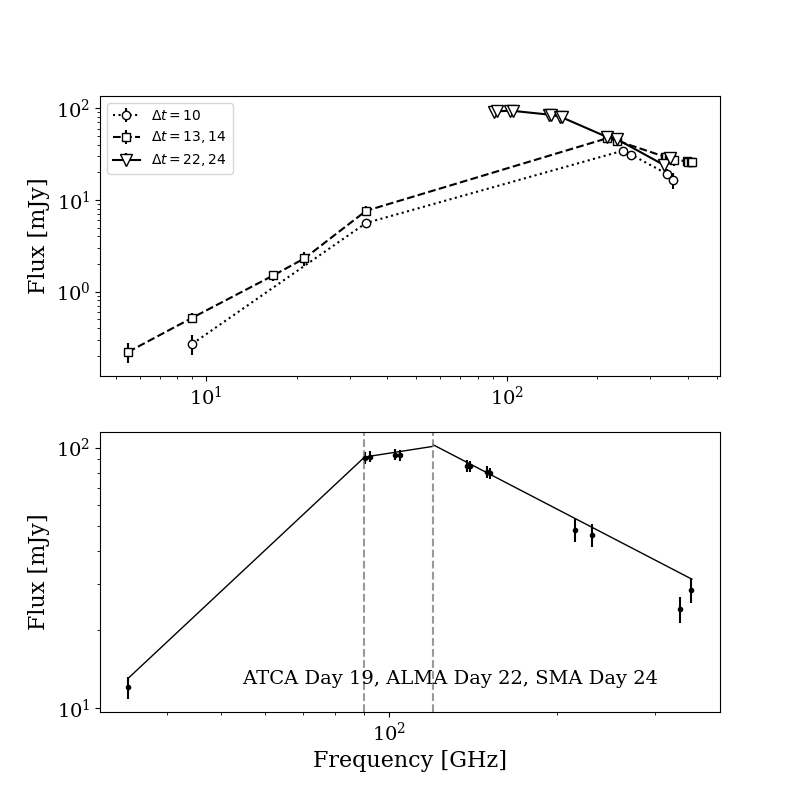
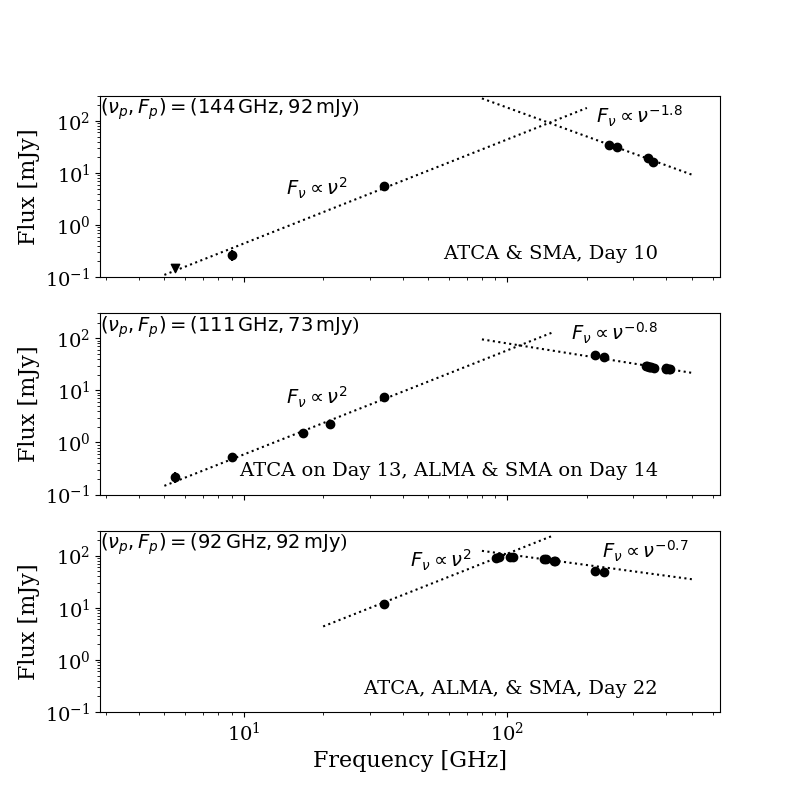
xray light curve

diff --git a/paper_plots/plot_spec.py b/paper_plots/plot_spec.py
@@ -12,9 +12,11 @@ from astropy.table import Table
 from astropy.cosmology import Planck15
 
 
-def synchrotron(x, nu_a, F_a, nu_m, F_m, alpha):
+def synchrotron(x, nu_a, F_a, alpha):
     """ Fitting function """
     y = np.zeros(len(x))
+    nu_m = 100
+    F_m = 95
     choose = x <= nu_a
     y[choose] = F_a * (x[choose]/nu_a)**2
     choose = np.logical_and(x > nu_a, x <= nu_m)
@@ -24,14 +26,18 @@ def synchrotron(x, nu_a, F_a, nu_m, F_m, alpha):
     return y
 
 
+def self_abs(x, b):
+    """ Fitting function for self-absorbed part """
+    y = 10**(2*np.log10(x)+b)
+    return y
+
+
 def fit_spec(freq, flux, flux_err):
     """ Fit the spectrum on Day 22 to a synchrotron spectrum """
     nu_a = 90
     F_a = 90
-    nu_m = 100
-    F_m = 90
     alpha = -1.0
-    p0 = [nu_a, F_a, nu_m, F_m, alpha]
+    p0 = [nu_a, F_a, alpha]
 
     popt, pcov = curve_fit(
             synchrotron, freq, flux, p0 = p0,
@@ -40,6 +46,13 @@ def fit_spec(freq, flux, flux_err):
     xfit = np.linspace(min(freq), max(freq))
     yfit = synchrotron(xfit, *popt)
 
+
+def fit_self_abs(freq, flux, flux_err):
+    """ Fit the self-absorbed part of the spectrum """
+    popt, pcov = curve_fit(
+            self_abs, freq, flux,
+            sigma = flux_err, absolute_sigma = True)
+    return popt[0]
 
 
 
@@ -85,7 +98,8 @@ def get_data():
 if __name__=="__main__":
     tel, freq, days, flux, flux_err = get_data()
 
-    fig, axarr = plt.subplots(2, 1, figsize=(8,8))
+    fig, axarr = plt.subplots(
+            3, 1, figsize=(8,8), sharex=True, sharey=True)
 
     # top panel: evolution of spectra
     ax = axarr[0]
@@ -96,12 +110,55 @@ if __name__=="__main__":
     det = flux_err[choose][order] > 0
     ax.errorbar(
             freq[choose][order][det], flux[choose][order][det], 
-            yerr=flux_err[choose][order][det],
-            mfc='white', mec='black', fmt=':', marker='o',
+            yerr=flux_err[choose][order][det], fmt='o',
             label="$\Delta t = 10$", c='k')
+    ax.scatter(
+            5.5, 0.15, marker='v', c='k')
+
+    b = fit_self_abs(
+            freq[choose][order][det][0:2],
+            flux[choose][order][det][0:2],
+            flux_err[choose][order][det][0:2])
+    xfit = np.linspace(5, 200)
+    yfit = 10**(2*np.log10(xfit)+b)
+    ax.plot(xfit, yfit, ls=':', c='k')
+
+    ax.text(
+            0.4, 0.45, "$F_\\nu \propto \\nu^2$", 
+            transform=ax.transAxes, horizontalalignment='right', fontsize=14)
+
+    # fit and plot a nu^something line
+    m,b = np.polyfit(
+            np.log10(freq[choose][order][det][2:]),
+            np.log10(flux[choose][order][det][2:]),
+            deg = 1,
+            w=1/flux_err[choose][order][det][2:]**2)
+    print(m)
+    xfit = np.linspace(80, 500)
+    yfit = 10**(m*np.log10(xfit)+b)
+    ax.plot(xfit, yfit, ls=':', c='k')
+    ax.text(
+            0.8, 0.85, "$F_\\nu \propto \\nu^{-1.8}$", 
+            transform=ax.transAxes, horizontalalignment='left', fontsize=14)
+
+    # the lines join at (144, 92)
+    ax.text(
+            0, 0.9, "$(\\nu_p, F_p) = (144\,\mathrm{GHz}, 92\,\mathrm{mJy}$)", 
+            transform=ax.transAxes, horizontalalignment='left', fontsize=14)
+    ax.text(
+            0.9, 0.1, "ATCA & SMA, Day 10", 
+            transform=ax.transAxes, horizontalalignment='right', fontsize=14)
+
+    ax.tick_params(axis='both', labelsize=14)
+    ax.tick_params(axis='both', labelsize=14)
+    ax.set_ylabel("Flux [mJy]", fontsize=16)
+    ax.set_xscale('log')
+    ax.set_yscale('log')
 
     # plot the spectrum from Day 13-14 data
     # ATCA from Day 13, SMA and ALMA from Day 14
+    ax = axarr[1]
+
     choose = np.logical_or(
             np.logical_and(days == 13, tel == 'ATCA'),
             np.logical_and(days == 14, tel != 'ATCA'))
@@ -113,28 +170,47 @@ if __name__=="__main__":
     ax.errorbar(
             freq[choose][order][det], flux[choose][order][det], 
             yerr=flux_err[choose][order][det],
-            mfc='white', mec='black', fmt='--', marker='s',
-            label="$\Delta t = 13, 14$", c='k')
+            label="$\Delta t = 13, 14$", fmt='o', c='k')
 
-    # plot the spectrum from the Day 22 data
-    choose = days == 22
-    choose = np.logical_or(days == 22, days == 24)
+    # plot a nu^2 line
+    b = fit_self_abs(
+            freq[choose][order][det][0:5],
+            flux[choose][order][det][0:5],
+            flux_err[choose][order][det][0:5])
+    xfit = np.linspace(5, 150)
+    yfit = 10**(2*np.log10(xfit)+b)
+    ax.plot(xfit, yfit, ls=':', c='k')
+    ax.text(
+            0.4, 0.5, "$F_\\nu \propto \\nu^2$", 
+            transform=ax.transAxes, horizontalalignment='right', fontsize=14)
 
-    order = np.argsort(freq[choose])
-    ax.errorbar(
-            freq[choose][order], flux[choose][order], 
-            yerr=flux_err[choose][order],
-            mfc='white', mec='black', fmt='-', marker='v', ms=8, ls='-',
-            label="$\Delta t = 22, 24$", c='k')
+    # fit and plot a nu^something line
+    m,b = np.polyfit(
+            np.log10(freq[choose][order][det][5:]),
+            np.log10(flux[choose][order][det][5:]),
+            deg = 1,
+            w=1/flux_err[choose][order][det][5:]**2)
+    print(m)
+    xfit = np.linspace(80, 500)
+    yfit = 10**(m*np.log10(xfit)+b)
+    ax.plot(xfit, yfit, ls=':', c='k')
+    ax.text(
+            0.9, 0.85, "$F_\\nu \propto \\nu^{-0.8}$", 
+            transform=ax.transAxes, horizontalalignment='right', fontsize=14)
+
+    # Explain which day and instruments this is
+    ax.text(
+            0, 0.9, "$(\\nu_p, F_p) = (111\,\mathrm{GHz}, 73\,\mathrm{mJy}$)", 
+            transform=ax.transAxes, horizontalalignment='left', fontsize=14)
+    ax.text(
+            0.9, 0.1, "ATCA on Day 13, ALMA & SMA on Day 14", 
+            transform=ax.transAxes, horizontalalignment='right', fontsize=14)
 
     ax.tick_params(axis='both', labelsize=14)
     ax.tick_params(axis='both', labelsize=14)
     ax.set_ylabel("Flux [mJy]", fontsize=16)
     ax.set_xscale('log')
     ax.set_yscale('log')
-
-    ax.legend()
-
 
     # bottom panel: a fit to the spectrum on Day 22
     # ALMA data
@@ -157,7 +233,7 @@ if __name__=="__main__":
     choose = choose_alma
     order = np.argsort(freq[choose])
 
-    ax = axarr[1]
+    ax = axarr[2]
     ax.errorbar(
             freq[choose][order], flux[choose][order], 
             yerr=flux_err[choose][order],
@@ -172,12 +248,43 @@ if __name__=="__main__":
     ax.text(
             0.9, 0.1, "ATCA, ALMA, & SMA, Day 22", 
             transform=ax.transAxes, horizontalalignment='right', fontsize=14)
+    ax.text(
+            0, 0.9, "$(\\nu_p, F_p) = (92\,\mathrm{GHz}, 92\,\mathrm{mJy}$)", 
+            transform=ax.transAxes, horizontalalignment='left', fontsize=14)
+
+    ax.text(
+            0.6, 0.8, "$F_\\nu \propto \\nu^2$", 
+            transform=ax.transAxes, horizontalalignment='right', fontsize=14)
+
+    # fit a nu^2 line to the ATCA point and the lowest-freq ALMA point
+    x = np.array([34, freq[choose][order][0]])
+    y = np.array([12, flux[choose][order][0]])
+    yerr = np.array([0.1*12, flux_err[choose][order][0]])
+    b = fit_self_abs(x, y, yerr)
+    xfit = np.linspace(20, 150)
+    yfit = 10**(2*np.log10(xfit)+b)
+    plt.plot(xfit, yfit, c='k', ls=':')
+
+    # fit and plot a nu^something line
+    m,b = np.polyfit(
+            np.log10(freq[choose][order][4:]),
+            np.log10(flux[choose][order][4:]),
+            deg = 1,
+            w=1/flux_err[choose][order][4:]**2)
+    print(m)
+    xfit = np.linspace(80, 500)
+    yfit = 10**(m*np.log10(xfit)+b)
+    ax.plot(xfit, yfit, ls=':', c='k')
+    ax.text(
+            0.95, 0.85, "$F_\\nu \propto \\nu^{-0.7}$", 
+            transform=ax.transAxes, horizontalalignment='right', fontsize=14)
 
     ax.tick_params(axis='both', labelsize=14)
     ax.set_xlabel("Frequency [GHz]", fontsize=16)
     ax.set_ylabel("Flux [mJy]", fontsize=16)
     ax.set_xscale('log')
     ax.set_yscale('log')
+    ax.set_ylim(0.1,300)
 
-    plt.show()
-    #plt.savefig("spec.png")
+    #plt.show()
+    plt.savefig("spec.png")

diff --git a/paper_plots/plot_lc.py b/paper_plots/plot_lc.py
@@ -26,7 +26,7 @@ def spindex(ax, d, nulow, nuhigh, flow, eflow, fhigh, efhigh):
     return alpha, ealpha
 
 
-def sma(ax):
+def sma(ax, legend):
     dat = Table.read(
         "../data/radio_lc.dat", delimiter="&", format='ascii.no_header')
     tel = np.array(dat['col2'])
@@ -106,7 +106,8 @@ def sma(ax):
     ax.set_ylabel("$F_{\\nu}$ [mJy]", fontsize=16)
     ax.yaxis.set_tick_params(labelsize=14)
 
-    ax.legend()
+    if legend:
+        ax.legend()
 
     return days_return, nulow_return, nuhigh_return, flow_return, eflow_return, fhigh_return, efhigh_return
 
@@ -181,23 +182,24 @@ def atca(ax):
     ax.legend()
 
 
-fig = plt.figure(figsize=(6,8))#, tight_layout=True)
-gs = gridspec.GridSpec(2, 1, height_ratios=[3,1], hspace=0.1)
-gs.update(left=0.15, right=0.9)
+if __name__=="__main__":
+    fig = plt.figure(figsize=(6,8))#, tight_layout=True)
+    gs = gridspec.GridSpec(2, 1, height_ratios=[3,1], hspace=0.1)
+    gs.update(left=0.15, right=0.9)
 
-atca_ax = plt.subplot(gs[1])#fig.add_subplot(gs[5:6, :], sharex=ax1)
-atca(atca_ax)
+    atca_ax = plt.subplot(gs[1])#fig.add_subplot(gs[5:6, :], sharex=ax1)
+    atca(atca_ax)
 
-gs0 = gridspec.GridSpecFromSubplotSpec(
-        2, 1, subplot_spec = gs[0], height_ratios=[1,4], hspace=0)
-#gs0.update(hspace=0.05)
-ax1 = plt.subplot(gs0[1], sharex=atca_ax)#fig.add_subplot(gs[0:5, :])
-days, nulow, nuhigh, flow, eflow, fhigh, efhigh = sma(ax1)
-plt.setp(ax1.get_xticklabels(), visible=False)
+    gs0 = gridspec.GridSpecFromSubplotSpec(
+            2, 1, subplot_spec = gs[0], height_ratios=[1,4], hspace=0)
+    #gs0.update(hspace=0.05)
+    ax1 = plt.subplot(gs0[1], sharex=atca_ax)#fig.add_subplot(gs[0:5, :])
+    days, nulow, nuhigh, flow, eflow, fhigh, efhigh = sma(ax1, legend=True)
+    plt.setp(ax1.get_xticklabels(), visible=False)
 
-ax2 = plt.subplot(gs0[0], sharex=atca_ax)#fig.add_subplot(gs[0:5, :])
-alpha, ealpha = spindex(ax2, days, nulow, nuhigh, flow, eflow, fhigh, efhigh)
-plt.setp(ax2.get_xticklabels(), visible=False)
+    ax2 = plt.subplot(gs0[0], sharex=atca_ax)#fig.add_subplot(gs[0:5, :])
+    alpha, ealpha = spindex(ax2, days, nulow, nuhigh, flow, eflow, fhigh, efhigh)
+    plt.setp(ax2.get_xticklabels(), visible=False)
 
-#plt.savefig("lc.png")
-plt.show()
+    #plt.savefig("lc.png")
+    plt.show()

diff --git a/paper_plots/xray_lc.py b/paper_plots/xray_lc.py
@@ -1,0 +1,37 @@
+""" Plot the X-ray light curve vs. the SMA light curves """
+
+import matplotlib.pyplot as plt
+import numpy as np
+from astropy.table import Table
+from plot_spec import get_data
+from plot_lc import sma
+
[1 lines of base64/hex data omitted]
+dat = Table.read(direc + "/table_to_plot.dat", format='ascii')
+t = dat['!Time']
+cts = dat['Rate']
+ects =dat['Rate_Err']
+
+# mean conversion factor
+conv = 4.80e-11 # flux / cps
+xrt_flux = cts * conv
+
+fig, axarr = plt.subplots(2, 1, sharex=True)
+ax = axarr[0]
+days, nulow, nuhigh, flow, eflow, fhigh, efhigh = sma(ax, legend=False)
+
+for ii in np.arange(14,19):
+    ax.axvline(x=ii, alpha=0.5, lw=2)
+
+# T0 for this burst is 2018 Jun 19 at 10:31:55.845 UT
+# whereas I'm using June 16 as my T0
+ax = axarr[1]
+ax.errorbar(t/86400 + 3, cts, yerr=ects, fmt='.', c='k')
+ax.set_xlabel("Days Since 16 June UT", fontsize=14)
+ax.set_ylabel("XRT Counts/Sec", fontsize=14)
+
+for ii in np.arange(14,19):
+    ax.axvline(x=ii, alpha=0.5, lw=2)
+
+#plt.show()
+plt.savefig("xray_vs_radio.png")
